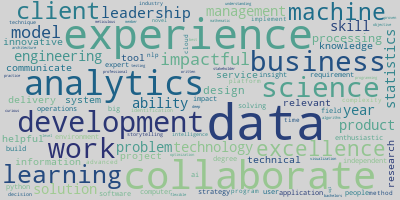
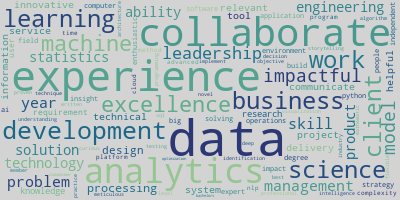
testing subtopic visualizations

diff --git a/nlp_main.py b/nlp_main.py
@@ -5310,7 +5310,7 @@ def nlp_skill_lists(additional_stopwords):
     subtopic_missing_terms = sorted(list(set(subtopics_combined) - set(ds_skills_combined)))
     print(f'Subtopic terms missing from primary skill lists: {subtopic_missing_terms}\n')  
     
-    return ds_cred_terms, ds_tech_skill_terms, ds_soft_skill_terms, ds_prof_skill_terms, ds_skills_combined, subtopic_python, subtopic_languages
+    return ds_cred_terms, ds_tech_skill_terms, ds_soft_skill_terms, ds_prof_skill_terms, ds_skills_combined, subtopic_python, subtopic_languages, subtopic_dl_frameworks, subtopic_viz, subtopic_aws
 
 
 def nlp_count_n_grams(terms_for_nlp, n_gram_count, n_gram_range_start, n_gram_range_stop, print_flag=False):
@@ -5449,8 +5449,8 @@ def main_program(csv_path):
     terms_for_nlp, additional_stopwords, term_fixes = clean_terms_for_nlp(series_of_interest)
     
     # create lists for key terms related to credentialing and key skill sets, and a combined list for all terms of interest
-    (ds_cred_terms, ds_tech_skill_terms, ds_soft_skill_terms,
-     ds_prof_skill_terms, ds_skills_combined, subtopic_python, subtopic_languages) = nlp_skill_lists(additional_stopwords)
+    (ds_cred_terms, ds_tech_skill_terms, ds_soft_skill_terms, ds_prof_skill_terms, ds_skills_combined,
+     subtopic_python, subtopic_languages, subtopic_dl_frameworks, subtopic_viz, subtopic_aws) = nlp_skill_lists(additional_stopwords)
     
     # count all n_grams 
     n_gram_count = 1
@@ -5468,7 +5468,10 @@ def main_program(csv_path):
     
     visualize_subtopic(df, df_jobs_raw, terms_for_nlp, subtopic_python, unique_titles_viz, viz_title='Python Subtopic')
     visualize_subtopic(df, df_jobs_raw, terms_for_nlp, subtopic_languages, unique_titles_viz, viz_title='Programming Language Subtopic')
-
+    visualize_subtopic(df, df_jobs_raw, terms_for_nlp, subtopic_dl_frameworks, unique_titles_viz, viz_title='Deep Learning Frameworks Subtopic')
+    visualize_subtopic(df, df_jobs_raw, terms_for_nlp, subtopic_viz, unique_titles_viz, viz_title='Visualization Tooling Subtopic')
+    visualize_subtopic(df, df_jobs_raw, terms_for_nlp, subtopic_aws, unique_titles_viz, viz_title='AWS Subtopic')
+    
     return df, series_of_interest, terms_for_nlp, additional_stopwords, term_fixes, n_grams, ds_cred_terms, df_raw
 
 
